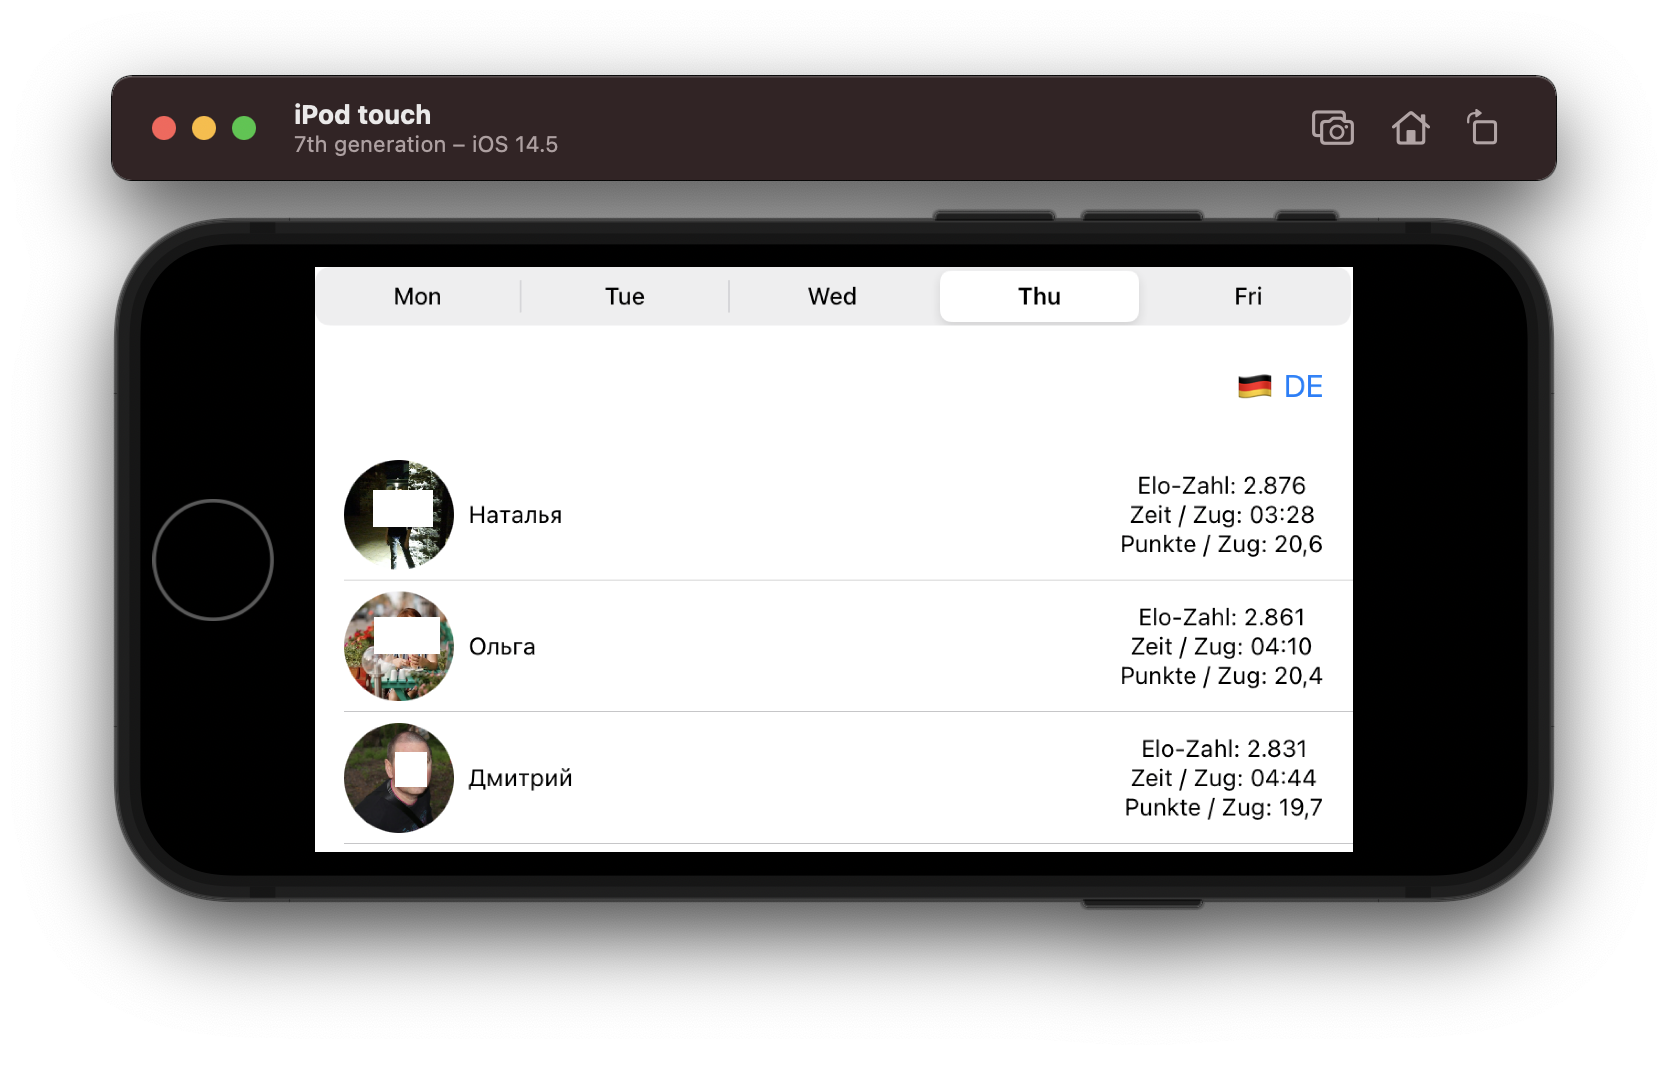
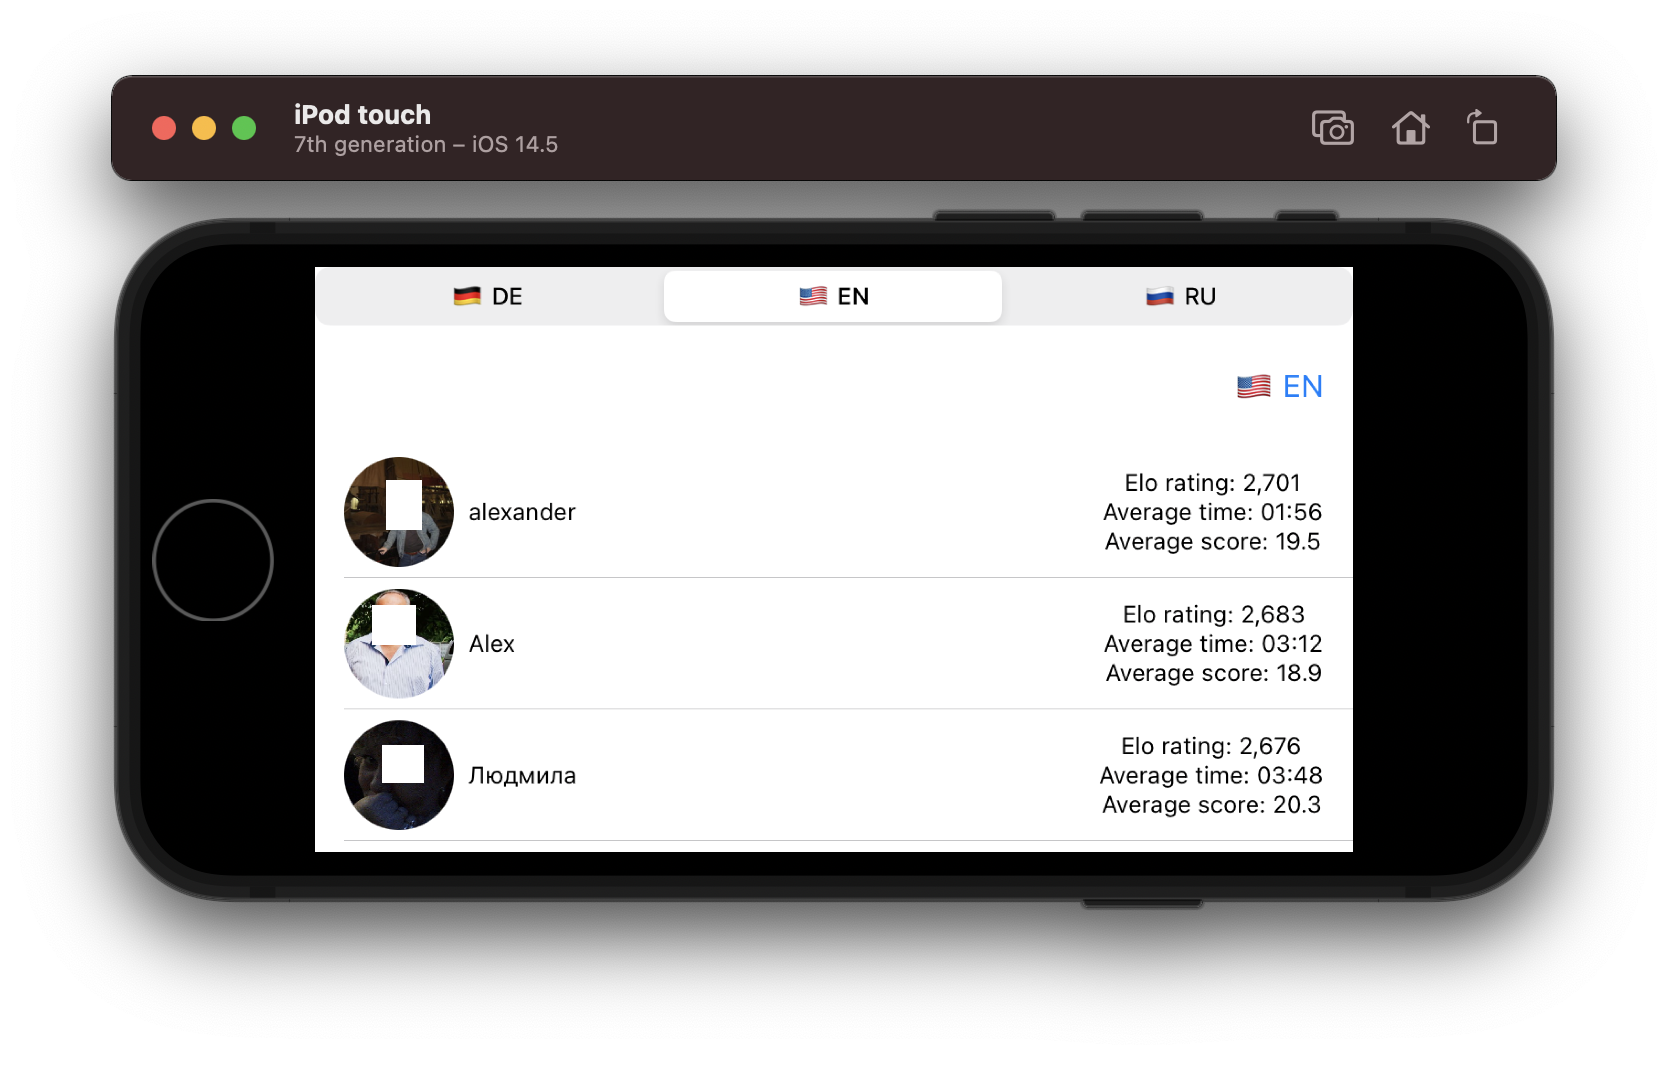
Show languages also in the segmented picker

diff --git a/Tops1/Tops1/Views/ContentView.swift b/Tops1/Tops1/Views/ContentView.swift
@@ -18,9 +18,6 @@ struct ContentView: View {
     
     let downloadManager = DownloadManager.instance
     
-    @State private var selection = 0
-    private let items: [String] = ["Mon", "Tue", "Wed", "Thu", "Fri"]
-    
     let labels = [
         "en" : "🇺🇸 EN",
         "de" : "🇩🇪 DE",
@@ -32,9 +29,9 @@ struct ContentView: View {
     var body: some View {
         VStack(alignment: .trailing) {
 
-            Picker(selection: $selection, label: Text("")) {
-                ForEach(0..<items.count, id: \.self) { index in
-                    Text(self.items[index]).tag(index)
+            Picker(selection: $language, label: Text(labels[language]!)) {
+                ForEach(labels.sorted(by: <), id: \.key) { key, value in
+                    Text(value).tag(key)
                 }
             }.pickerStyle(SegmentedPickerStyle())
             
